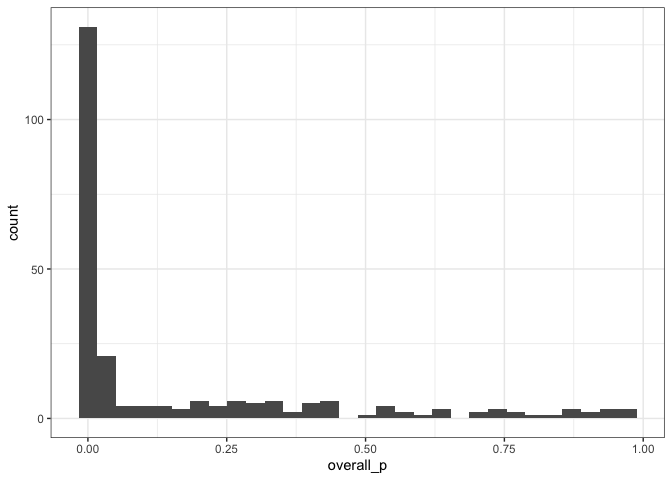
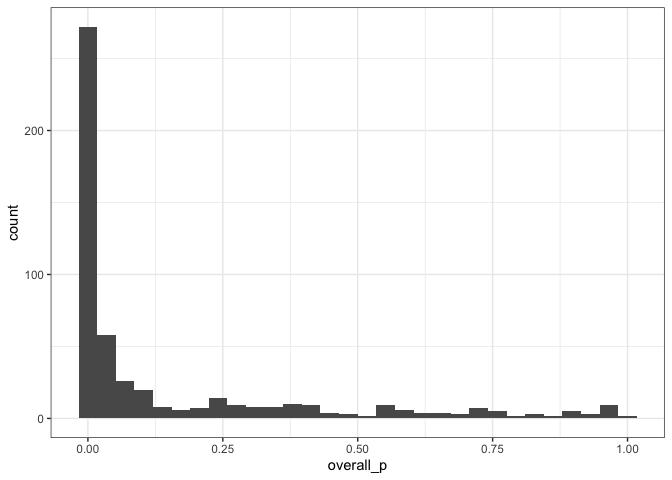
im done

diff --git a/reports/interaction_results.md b/reports/interaction_results.md
@@ -1,11 +1,11 @@
 Actual results
 ================
 Renata Diaz
-2021-09-06
+2021-09-07
 
-  - [State variable change](#state-variable-change)
-
-# State variable change
+This whole approach bugs me because of the sheer number of comparisons
+being made and the .05 threshold. So, don’t overinterpret in any single
+instance.
 
 ``` r
 ggplot(all_results, aes(overall_p)) +geom_histogram()
@@ -22,13 +22,29 @@ all_results <- all_results %>%
     `Pr(>|t|)_timeperiodend:currencybiomass` < .05,
     `Pr(>|t|)_timeperiodend:currencyenergy` < .05,
     `Pr(>|t|)_timeperiodend` < .05
-  ))) %>%
+  )),
+  any_contrasts_sig = any(
+    abundance_contrastp.value < .05,
+    energy_contrastp.value < .05,
+    biomass_contrastp.value < .05
+  ),
+  abundance_up = abundance_raw_ratio >=1,
+         biomass_up = biomass_raw_ratio >=1,
+         energy_up = energy_raw_ratio >=1) %>%
   ungroup()
+```
 
+``` r
 mean(all_results$any_terms_sig)
 ```
 
-    ## [1] 0.5714286
+    ## [1] 0.5757576
+
+So 0.5757576 percent of the time we have both the overall lm significant
+and at least one **slope** term is significant. (There are 25 (in the
+full dataset/16 in the max-10 subset) routes where the overall model is
+significant but it’s either the intercept or one of the currency
+intercepts).
 
 ``` r
 sig_model <- all_results %>% 
@@ -40,108 +56,135 @@ sig_model <- all_results %>%
     `Pr(>|t|)_timeperiodend` < .05
   )) %>%
   ungroup()
+```
 
+``` r
+mean(sig_model$all_together)
+```
 
+    ## [1] 0.7631579
+
+Of the models that are significant overall and have a significant slope,
+0.7631579 of them have a significant time slope but not a significant
+interaction of time x currency. Meaning that biomass, energy use, and
+abundance have all *changed* but have not changed *differently from each
+other*.
+
+When they **are** all changing, but changing together:
+
+``` r
 all_together <- filter(sig_model, all_together)
 
-ggplot(all_together, aes(fitted_ratio_caps_abundance)) + geom_histogram()
+ggplot(all_together, aes(abundance_raw_ratio)) + geom_histogram()
 ```
 
     ## `stat_bin()` using `bins = 30`. Pick better value with `binwidth`.
 
-![](interaction_results_files/figure-gfm/unnamed-chunk-1-2.png)<!-- -->
+![](interaction_results_files/figure-gfm/unnamed-chunk-5-1.png)<!-- -->
 
 ``` r
-ggplot(all_together, aes(fitted_ratio_caps_energy)) + geom_histogram()
+ggplot(all_together, aes(biomass_raw_ratio)) + geom_histogram()
 ```
 
     ## `stat_bin()` using `bins = 30`. Pick better value with `binwidth`.
 
-![](interaction_results_files/figure-gfm/unnamed-chunk-1-3.png)<!-- -->
+![](interaction_results_files/figure-gfm/unnamed-chunk-5-2.png)<!-- -->
 
 ``` r
-ggplot(all_together, aes(fitted_ratio_caps_biomass)) + geom_histogram()
+ggplot(all_together, aes(energy_raw_ratio)) + geom_histogram()
 ```
 
     ## `stat_bin()` using `bins = 30`. Pick better value with `binwidth`.
 
-![](interaction_results_files/figure-gfm/unnamed-chunk-1-4.png)<!-- -->
+![](interaction_results_files/figure-gfm/unnamed-chunk-5-3.png)<!-- -->
 
 ``` r
-summary(all_together$fitted_ratio_caps_abundance)
+summary(all_together$abundance_raw_ratio)
 ```
 
     ##    Min. 1st Qu.  Median    Mean 3rd Qu.    Max. 
-    ##  0.2191  0.5741  0.7183  0.9106  1.3163  2.1330
+    ##  0.1645  0.5697  0.7171  0.9125  1.3059  2.5352
 
 ``` r
-summary(all_together$fitted_ratio_caps_energy)
+summary(all_together$energy_raw_ratio)
 ```
 
     ##    Min. 1st Qu.  Median    Mean 3rd Qu.    Max. 
-    ##  0.2374  0.5791  0.7179  0.9609  1.3891  2.1513
+    ##  0.2004  0.5725  0.7225  0.9540  1.3202  3.8107
 
 ``` r
-summary(all_together$fitted_ratio_caps_biomass)
+summary(all_together$biomass_raw_ratio)
 ```
 
     ##    Min. 1st Qu.  Median    Mean 3rd Qu.    Max. 
-    ##  0.2412  0.6377  0.7573  1.0606  1.4955  2.9050
+    ##  0.2383  0.6115  0.7772  1.0629  1.3951  4.6937
 
 ``` r
-ggplot(sig_model, aes(fitted_ratio_caps_energy / fitted_ratio_caps_abundance)) + geom_histogram() + facet_wrap(vars(`Pr(>|t|)_timeperiodend:currencyenergy` < .05))
+mean(all_together$abundance_up)
+```
+
+    ## [1] 0.3491379
+
+It’s usually a decrease - 65/35 decrease/increase. The median is for end
+to be 75% of begin.
+
+When they **aren’t** changing all together…
+
+``` r
+not_together <- filter(sig_model, !all_together)
+
+not_together %>%
+  group_by(abundance_up) %>%
+  summarize(e_up = sum(energy_up),
+            b_up = sum(biomass_up),
+            totaln = dplyr::n()) %>%
+  ungroup()
+```
+
+<div class="kable-table">
+
+| abundance\_up | e\_up | b\_up | totaln |
+| :------------ | ----: | ----: | -----: |
+| FALSE         |    25 |    44 |     59 |
+| TRUE          |     7 |     5 |     13 |
+
+</div>
+
+When abundance increases, energy decreases 6/13 times. When abundance
+decreases, energy increases 25/59 times. So that 31/72 incidences of a
+change in direction for *energy*.
+
+When abundance increases, biomass decreases 8/13 times. When abundance
+decreases, biomass increases 44/59 times. So that 52/72 incidences of a
+change in direction for *biomass*.
+
+If it’s not a change in direction, it’s an intensification/dampening of
+the *slope* of change.
+
+``` r
+ggplot(sig_model, aes(abundance_raw_ratio, energy_raw_ratio, color = all_together)) + geom_point() + onetoone
+```
+
+![](interaction_results_files/figure-gfm/unnamed-chunk-7-1.png)<!-- -->
+
+``` r
+ggplot(sig_model, aes(abundance_raw_ratio, biomass_raw_ratio, color = all_together)) + geom_point() + onetoone
+```
+
+![](interaction_results_files/figure-gfm/unnamed-chunk-7-2.png)<!-- -->
+
+``` r
+ggplot(sig_model, aes(isd_turnover)) + geom_histogram()
 ```
 
     ## `stat_bin()` using `bins = 30`. Pick better value with `binwidth`.
 
-![](interaction_results_files/figure-gfm/unnamed-chunk-1-5.png)<!-- -->
+![](interaction_results_files/figure-gfm/unnamed-chunk-8-1.png)<!-- -->
 
 ``` r
-ggplot(all_results, aes(fitted_ratio_caps_abundance, fitted_ratio_caps_energy, color =`Pr(>|t|)_timeperiodend:currencyenergy` < .05)) + geom_point() + onetoone + theme(legend.position = "bottom")
-```
-
-![](interaction_results_files/figure-gfm/unnamed-chunk-1-6.png)<!-- -->
-
-``` r
-ggplot(sig_model, aes(fitted_ratio_caps_biomass / fitted_ratio_caps_abundance)) + geom_histogram() + facet_wrap(vars(`Pr(>|t|)_timeperiodend:currencybiomass` < .05))
+ggplot(sig_model, aes(isd_turnover)) + geom_histogram() + facet_wrap(vars(all_together))
 ```
 
     ## `stat_bin()` using `bins = 30`. Pick better value with `binwidth`.
 
-![](interaction_results_files/figure-gfm/unnamed-chunk-1-7.png)<!-- -->
-
-``` r
-ggplot(all_results, aes(fitted_ratio_caps_abundance, fitted_ratio_caps_biomass, color =`Pr(>|t|)_timeperiodend:currencybiomass` < .05)) + geom_point() + onetoone + theme(legend.position = "bottom")
-```
-
-![](interaction_results_files/figure-gfm/unnamed-chunk-1-8.png)<!-- -->
-
-``` r
-ggplot(all_results, aes(isd_turnover)) + geom_histogram()
-```
-
-    ## `stat_bin()` using `bins = 30`. Pick better value with `binwidth`.
-
-![](interaction_results_files/figure-gfm/unnamed-chunk-2-1.png)<!-- -->
-
-``` r
-ggplot(sig_model, aes(isd_turnover)) + geom_histogram() + facet_wrap(vars(`Pr(>|t|)_timeperiodend:currencybiomass` < .05))
-```
-
-    ## `stat_bin()` using `bins = 30`. Pick better value with `binwidth`.
-
-![](interaction_results_files/figure-gfm/unnamed-chunk-2-2.png)<!-- -->
-
-``` r
-ggplot(all_results, aes(sp_turnover)) + geom_histogram()
-```
-
-    ## `stat_bin()` using `bins = 30`. Pick better value with `binwidth`.
-
-![](interaction_results_files/figure-gfm/unnamed-chunk-2-3.png)<!-- -->
-
-``` r
-ggplot(all_results, aes(sp_turnover, isd_turnover)) + geom_point() + onetoone
-```
-
-![](interaction_results_files/figure-gfm/unnamed-chunk-2-4.png)<!-- -->
+![](interaction_results_files/figure-gfm/unnamed-chunk-8-2.png)<!-- -->
